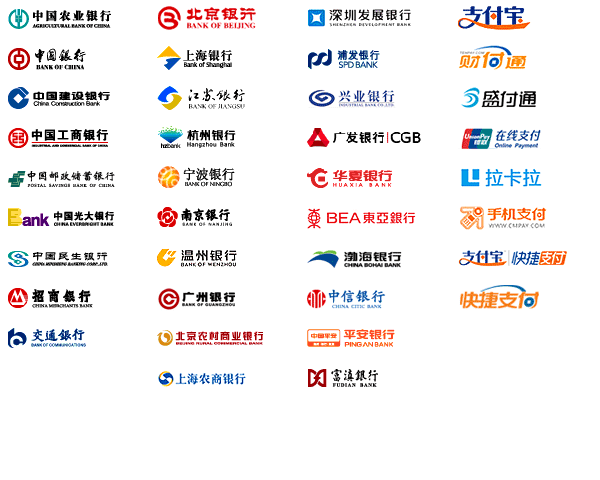
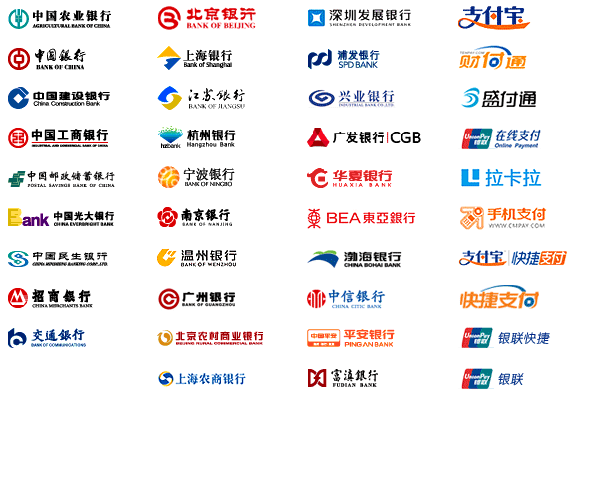
修改

Changed region(s): [[0.75, 0.6562, 0.93, 0.8125]]

diff --git a/docs/modules/bank.html b/docs/modules/bank.html
@@ -38,6 +38,8 @@
 .cmpay          中国移动手机支付    cmpay.10086.cn
 .alipay-quick   支付宝快捷支付
 .tenpay-quick   财付通快捷支付
+.unionpay-quick 银联快捷支付
+.unionpay2      银联
 
 .abc        中国农业银行        www.abchina.com
 .boc        中国银行            www.boc.cn
@@ -138,22 +140,22 @@ caption {
 <body>
 <div class="wrap">
     <h1>银行/支付方式 ICON</h1>
-	<p>对应关系参看——标识参考关系列表</p>
+    <p>对应关系参看——标识参考关系列表</p>
     <p>基类 <code>class="bank"</code>，组合样式使用，如支付宝 <code>class="bank alipay"</code>。</p>
     <h4>依赖：<small>银行/支付方式 ICON图标的使用 依赖以下样式</small></h4>
     <ul>
-    	<li><a href="http://pic.lvmama.com/styles/v4/modules/bank.css">http://pic.lvmama.com/styles/v4/modules/bank.css</a> 第三方支付 ICON图标集</li>
+        <li><a href="http://pic.lvmama.com/styles/v4/modules/bank.css">http://pic.lvmama.com/styles/v4/modules/bank.css</a> 第三方支付 ICON图标集</li>
     </ul>
     <table class="table-info">
         <caption><strong>使用说明：</strong>引用组合样式，bank+icon标识，如：如支付宝 <code>class="bank alipay"</code></caption>  
-    	<tr>
-    		<th width="25%">中国**银行</th>
-    		<th width="25%">地区命名的银行</th>
-    		<th width="25%">非地区命名的银行</th>
-    		<th width="25%">其他第三方平台</th>
-    	</tr>
         <tr>
-    		<td colspan="4" style="padding: 0; border-bottom: 0;">
+            <th width="25%">中国**银行</th>
+            <th width="25%">地区命名的银行</th>
+            <th width="25%">非地区命名的银行</th>
+            <th width="25%">其他第三方平台</th>
+        </tr>
+        <tr>
+            <td colspan="4" style="padding: 0; border-bottom: 0;">
                 <div class="banks">
                     <ul class="banks-item">
                         <li>abc </li>
@@ -206,14 +208,14 @@ caption {
                         <li>cmpay       </li>
                         <li>alipay-quick</li>
                         <li>tenpay-quick</li>
-                        <li></li>
-                        <li></li>
+                        <li>unionpay-quick</li>
+                        <li>unionpay2</li>
                         <li></li>
                         <li></li>
                     </ul>
                 </div>
             </td>
-    	</tr>
+        </tr>
     </table>
     <div class="docs-example">
         <p><strong>使用说明：</strong>引用组合样式，bank+icon标识，如：如支付宝 <code>class="bank alipay"</code></p>
@@ -274,6 +276,8 @@ caption {
             <li><label class="radio inline"><input class="input-radio" name="bankpay" type="radio"><i class="bank cmpay   " title="中国移动手机支付"></i></label></li>
             <li><label class="radio inline"><input class="input-radio" name="bankpay" type="radio"><i class="bank alipay-quick" title="支付宝快捷支付"></i></label></li>
             <li><label class="radio inline"><input class="input-radio" name="bankpay" type="radio"><i class="bank tenpay-quick" title="财付通快捷支付"></i></label></li>
+            <li><label class="radio inline"><input class="input-radio" name="bankpay" type="radio"><i class="bank unionpay-quick" title="银联快捷支付"></i></label></li>
+            <li><label class="radio inline"><input class="input-radio" name="bankpay" type="radio"><i class="bank unionpay2" title="银联支付"></i></label></li>
             
         </ul>
         
@@ -296,6 +300,8 @@ caption {
 .cmpay          中国移动手机支付    cmpay.10086.cn
 .alipay-quick   支付宝快捷支付
 .tenpay-quick   财付通快捷支付
+.unionpay-quick 银联快捷支付
+.unionpay2      银联
 
 .abc        中国农业银行        www.abchina.com
 .boc        中国银行            www.boc.cn

diff --git a/docs/modules/dialog.html b/docs/modules/dialog.html
@@ -319,13 +319,29 @@ pandora.dialog.defaults = {
         
         <h5>示例314</h5>
         <p><button class="pbtn" id="demo314">换肤</button></p>
-
+        
         <h5>示例315</h5>
         <p><button class="pbtn" id="demo315">全局配置</button></p>
         
         <h5>示例316</h5>
-        <p><button class="pbtn" id="demo316">element对象</button></p>
-
+        <p><button class="pbtn" id="demo316">显示element对象内容</button></p>
+        
+<!-- 
+    测试页面元素及其原绑定事件
+    事件不能写在将要显示在弹层的内容中
+ -->
+<div id="elemBack" class="hide">
+    <p>根据传入element对象（这里是#elemBack）显示其内容，同时保存其原有事件</p>
+    <p><strong>注意：</strong>原事件不能以script标签包含在 #elemBack 盒子内，否则会重复绑定</p>
+    <button class="btn">点此测试事件</button>
+</div>
+<script>
+    $("#elemBack .btn").click(function () {
+        pandora.alert("您点击激活了原绑定事件");
+    });
+</script>
+        
+        
     </div>
 <pre class="prettyprint linenums">
 // 示例：标准模式的使用
@@ -371,13 +387,14 @@ $("#demo315").click(function () {
 
 // 示例316
 pandora.dialog({
-    title: "自定义标题",
-    content:$("#elemBack")  //document.getElementById("elemBack")
+    title: "显示对应页面内容到弹窗",
+    content:$("#elemBack")  //或使用 document.getElementById("elemBack")
 });
 </pre>
-<div id="elemBack" style="display:none">
-    <p>根据传入element对象同时保存其事件</p>
-</div>
+
+
+
+
 <script>
 // 示例：标准模式的使用
 $(function(){
@@ -408,7 +425,8 @@ $(function(){
             cancel: true
         });
     });
-
+    
+    // 示例314
     $("#demo314").click(function () {
         pandora.dialog({
             skin: "dialog-bule",
@@ -417,10 +435,10 @@ $(function(){
         });
     });
 
-    // 全局配置
+    // 示例315
     (function (d) {
-        d["okClassName"] = "pbtn-orange";
         d["skin"] = "dialog-default";
+        d["okClassName"] = "pbtn-orange";
         d["mask"] = true;
     }(pandora.dialog.defaults));
 
@@ -428,18 +446,17 @@ $(function(){
         $.alert("全局配置");
     });
 
-    $("#elemBack").click(function () {
-        alert("根据传入element对象同时保存其事件");
-    });
-
+    // 示例316
     $("#demo316").click(function () {
         pandora.dialog({
-            title: "自定义标题",
-            content: $("#elemBack")  //document.getElementById("elemBack")
+            title: "显示对应页面内容到弹窗",
+            content: $("#elemBack")  //或使用 document.getElementById("elemBack")
         });
     });
 })
 </script>
+
+
     
     
     <div class="docs-example">

diff --git a/docs/assets/less/bank.css b/docs/assets/less/bank.css
@@ -71,3 +71,5 @@
 .cmpay          { background-position: -450px -200px; } /* 4-6  中国移动手机支付 */
 .alipay-quick   { background-position: -450px -240px; } /* 4-7  支付宝快捷支付   */
 .tenpay-quick   { background-position: -450px -280px; } /* 4-8  财付通快捷支付   */
+.unionpay-quick { background-position: -450px -320px; } /* 4-9  银联快捷支付     */
+.unionpay2      { background-position: -450px -360px; } /* 4-10 银联支付         */
